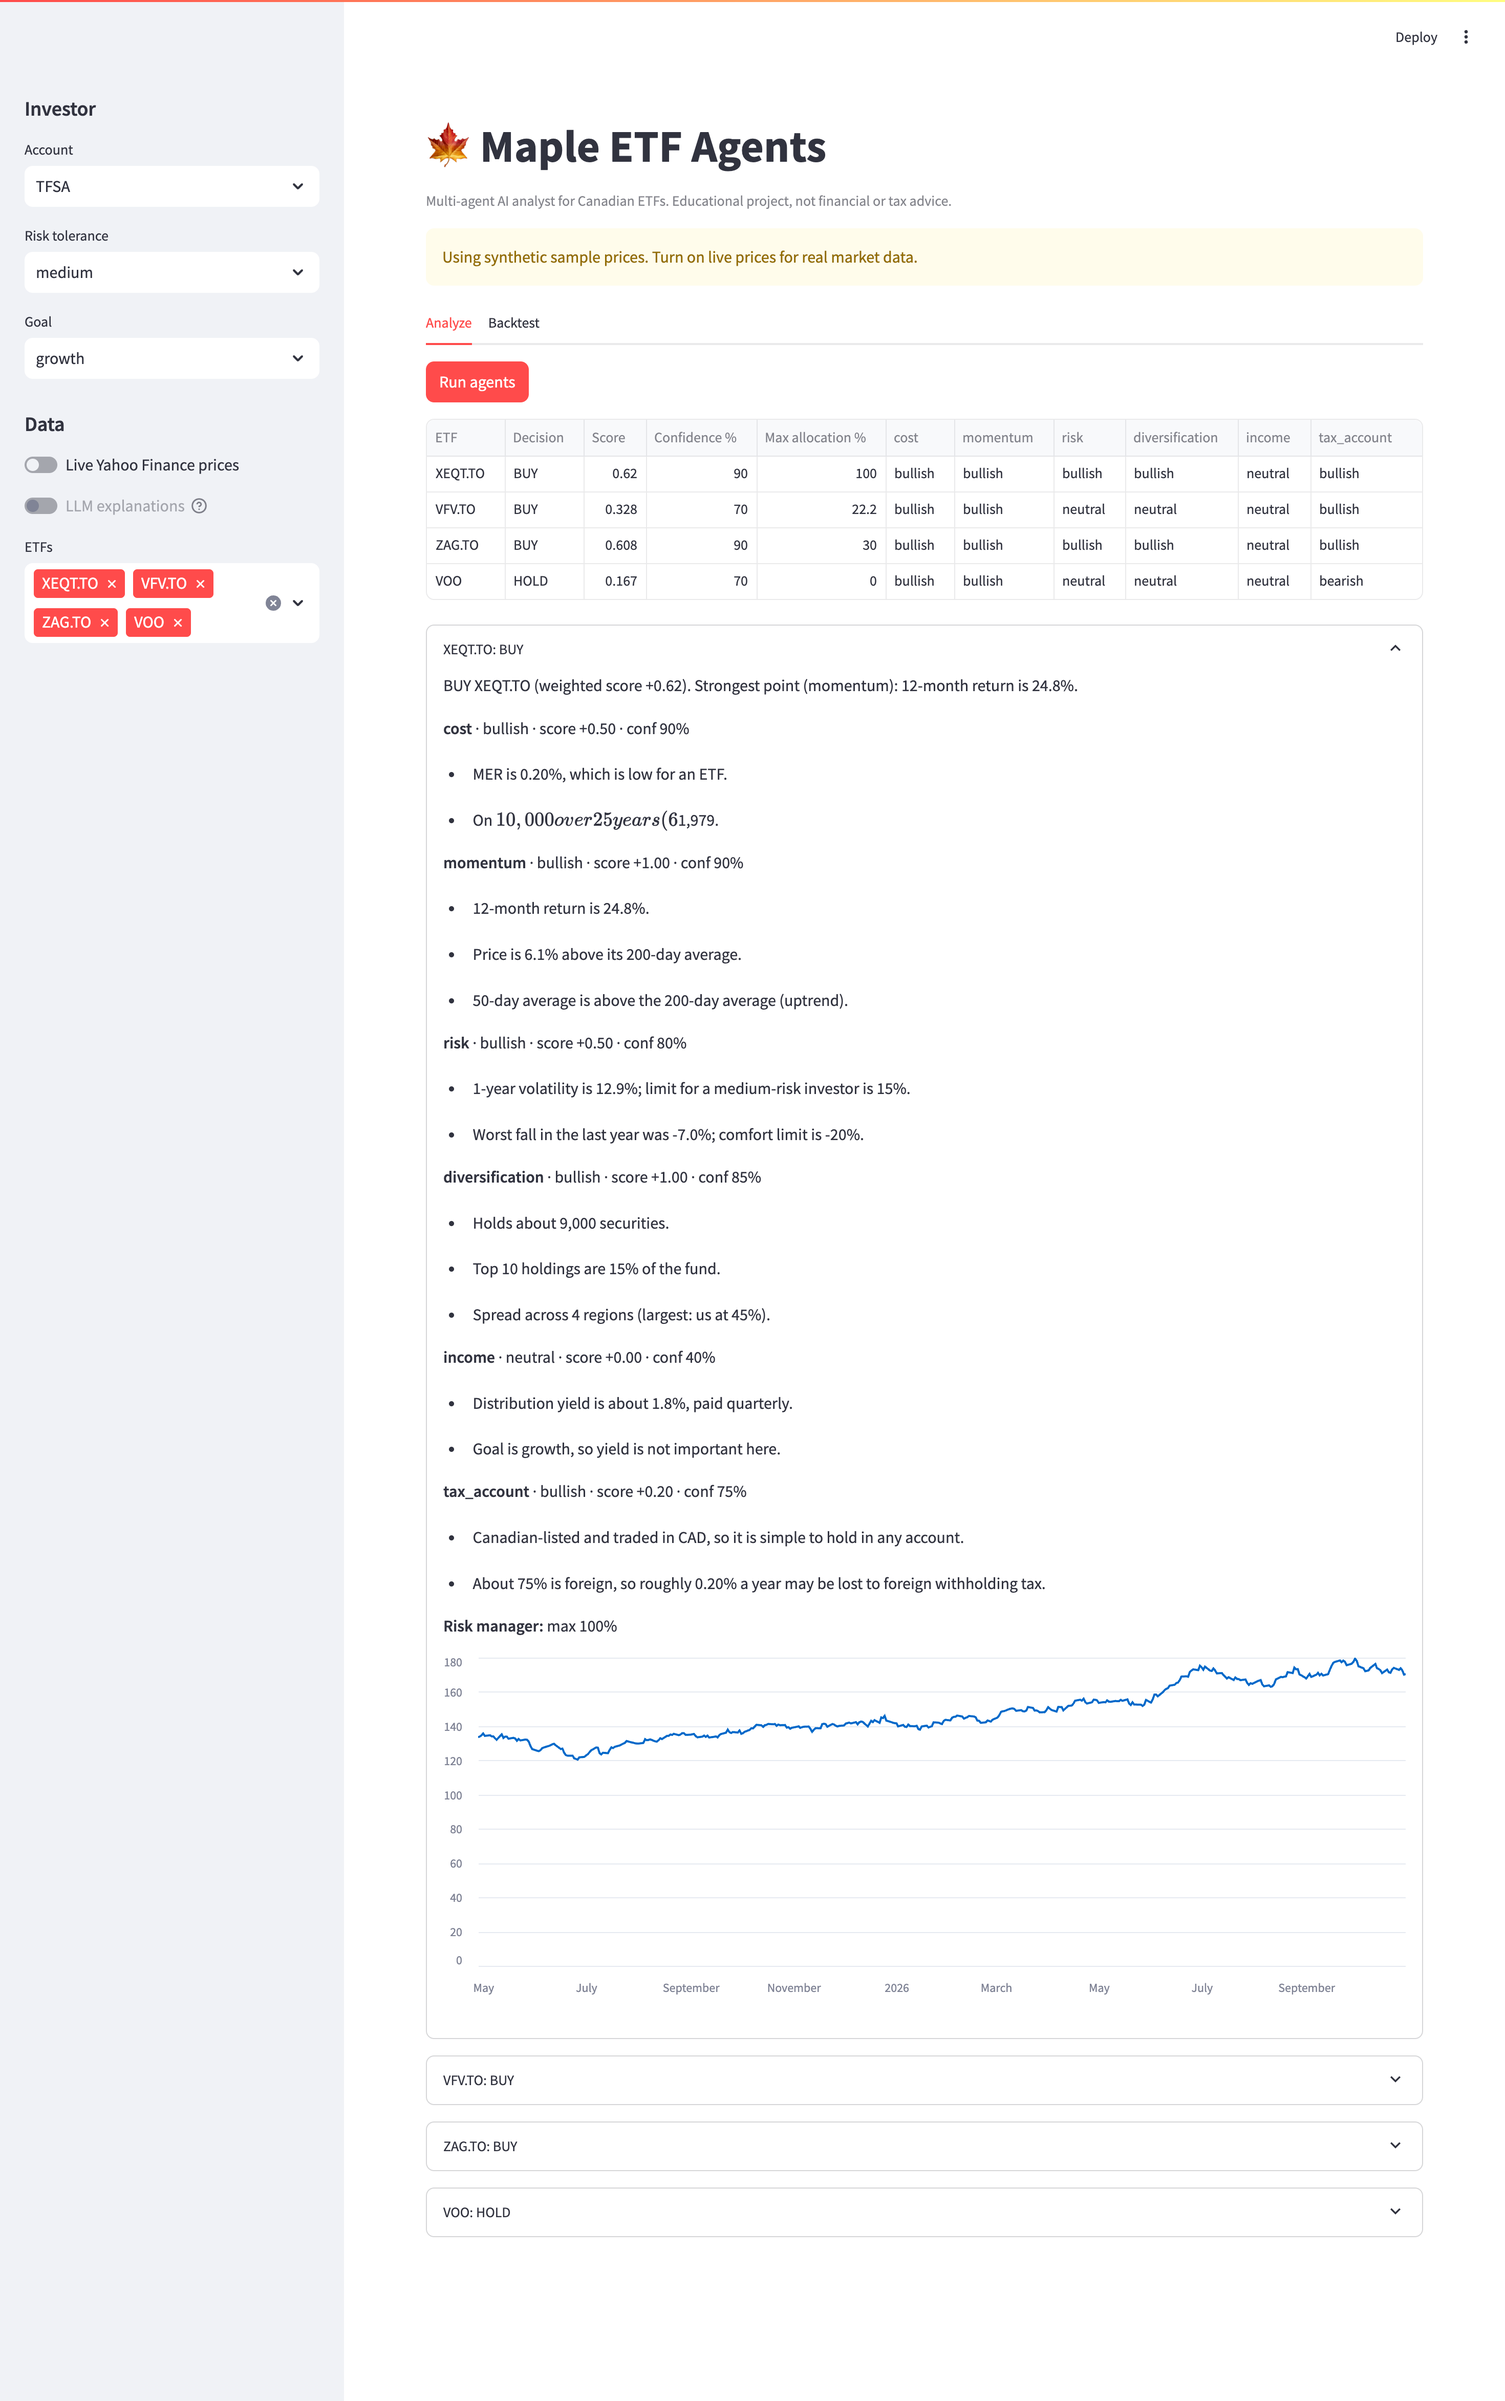
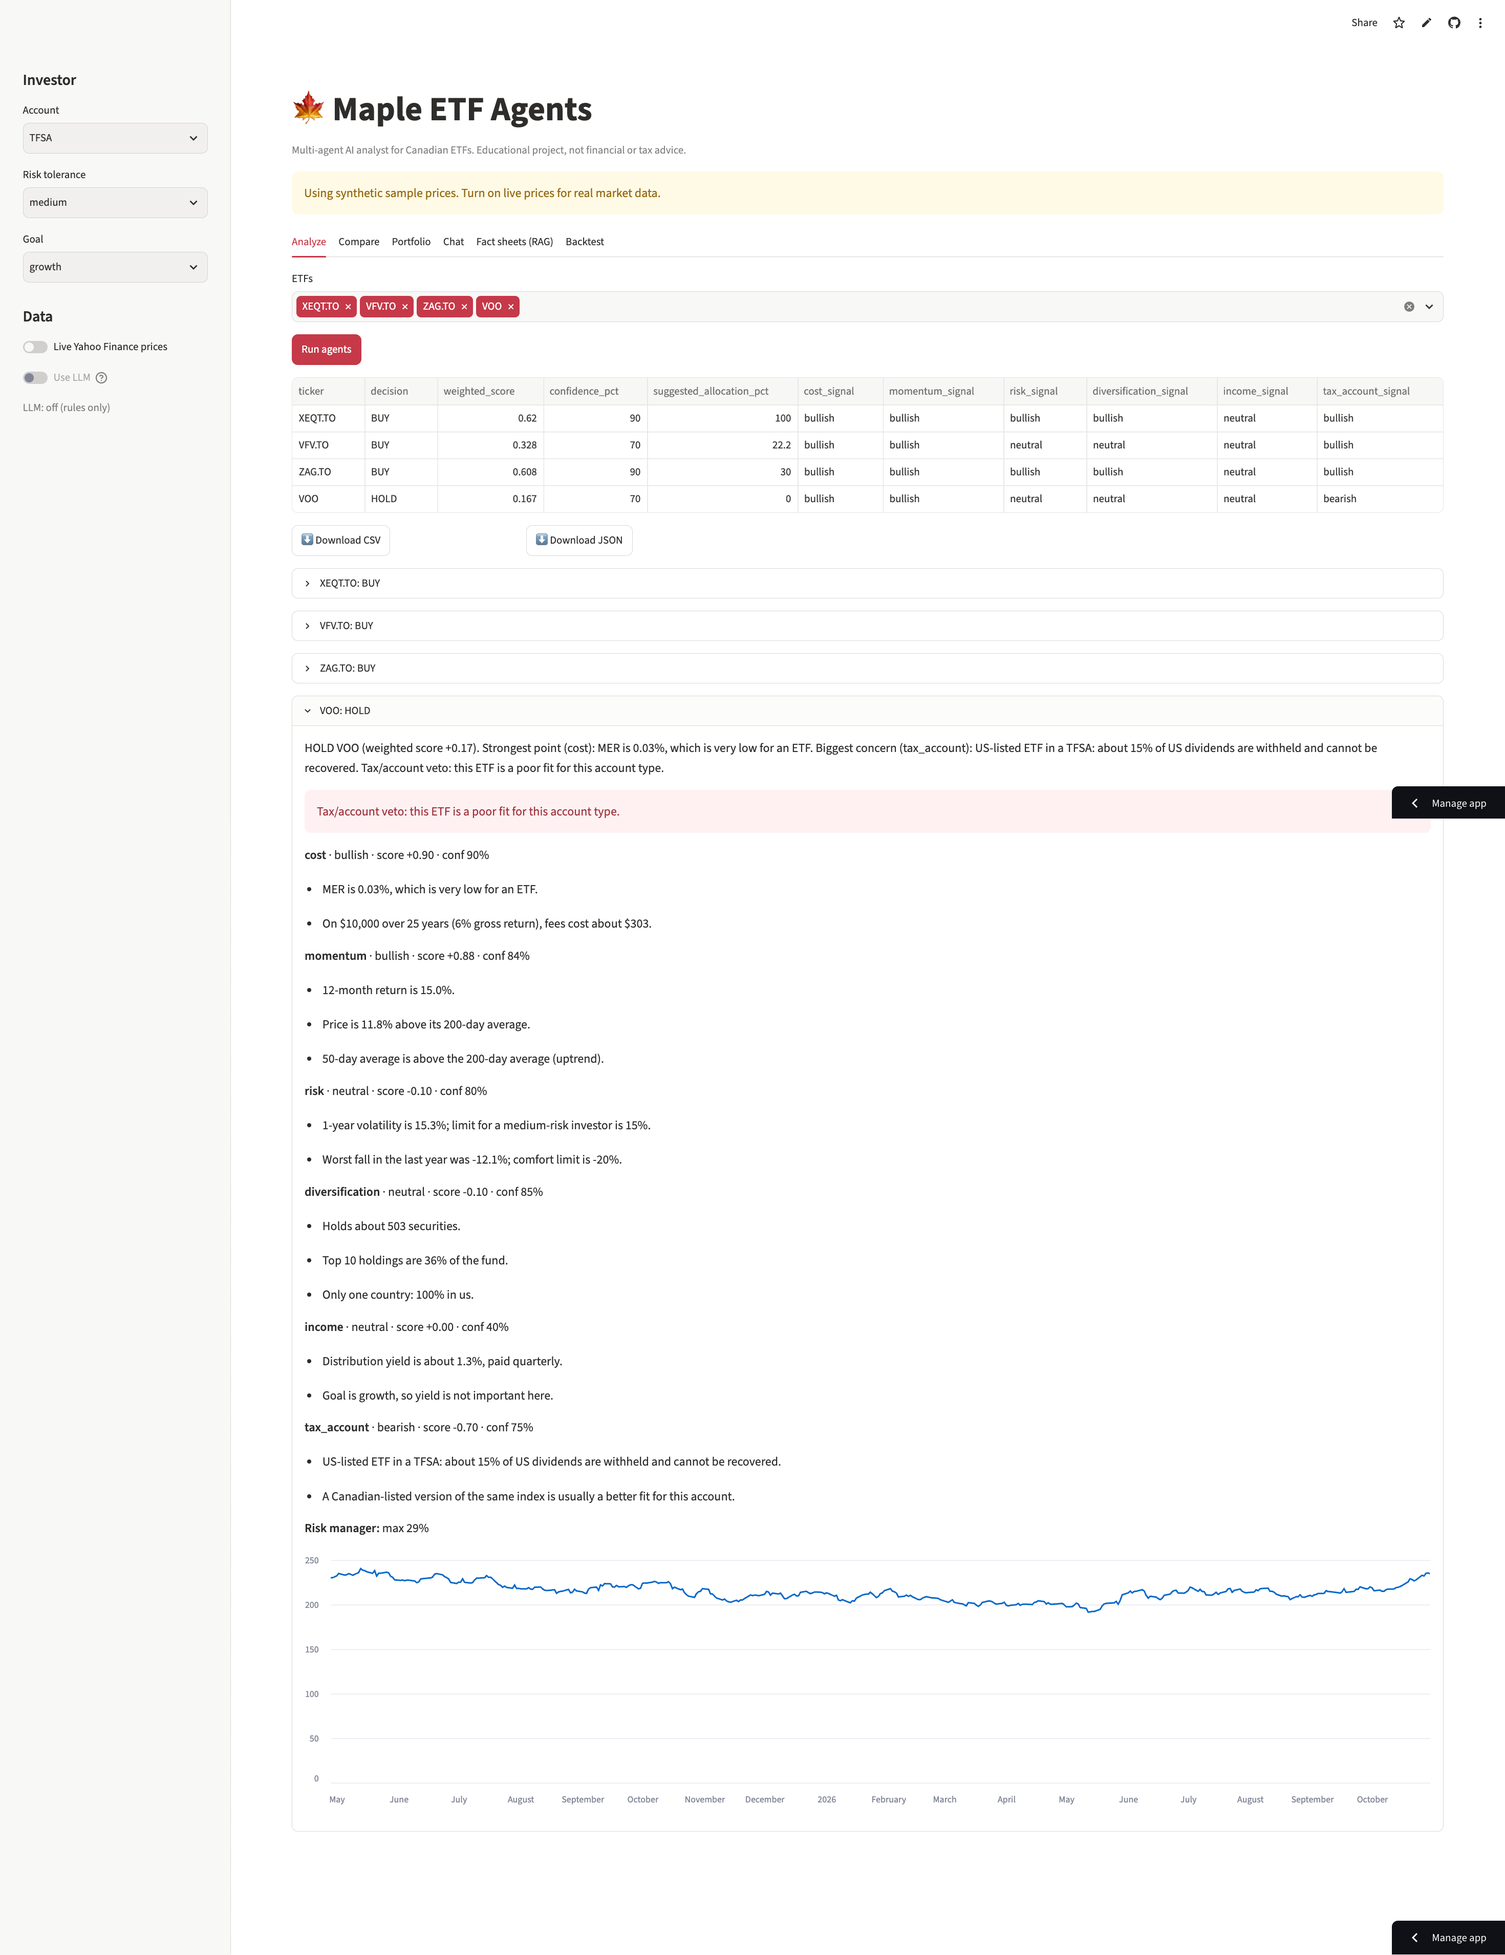
Add screenshots for all features

diff --git a/README.md b/README.md
@@ -23,9 +23,13 @@ Every number an LLM writes is **checked with code** against the facts. If the LL
 
 ## Demo
 
-![Analyze screen](docs/analyze.png)
-
-![Backtest screen](docs/backtest.png)
+| Analyze | Compare |
+|---|---|
+| ![Analyze](docs/analyze.png) | ![Compare](docs/compare.png) |
+| **Portfolio** | **Chat** |
+| ![Portfolio](docs/portfolio.png) | ![Chat](docs/chat.png) |
+| **Fact sheets (RAG)** | **Backtest** |
+| ![Fact sheets](docs/factsheets.png) | ![Backtest](docs/backtest.png) |
 
 ```text
 $ python -m maple_etf analyze XEQT.TO VFV.TO VOO ZAG.TO ZEB.TO --account TFSA --brief
@@ -234,9 +238,6 @@ Dockerfile, docker-compose.yml, .github/workflows/ci.yml
 - The sample fact sheets in `evals/rag_samples` are **made up** for testing. Real PDFs vary more.
 - The golden set and the starter judge labels were written by one person. More cases and more reviewers would make them stronger.
 
-## Credits
-
-The multi-agent "investment committee" idea was inspired by [virattt/ai-hedge-fund](https://github.com/virattt/ai-hedge-fund). This project is a separate implementation that focuses on Canadian ETFs, account-aware tax logic, evals and guardrails.
 
 ## License
 
